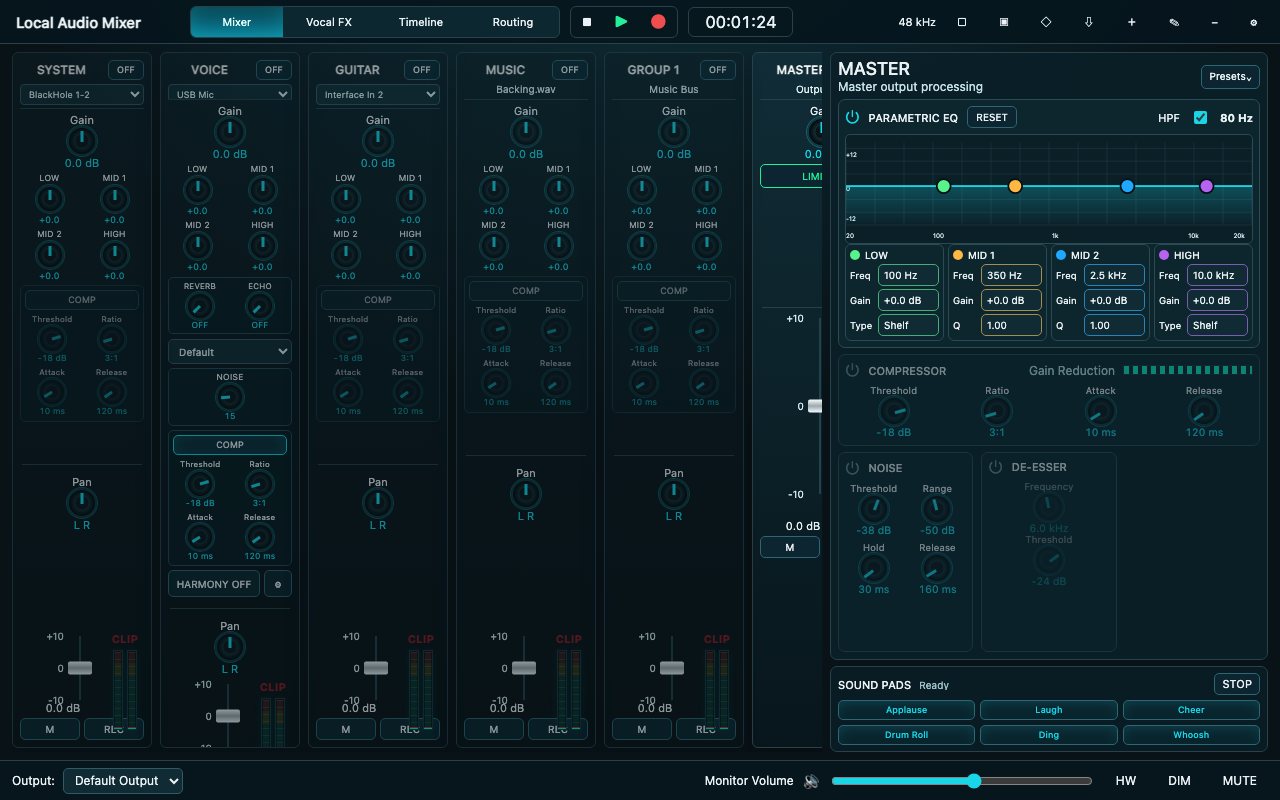
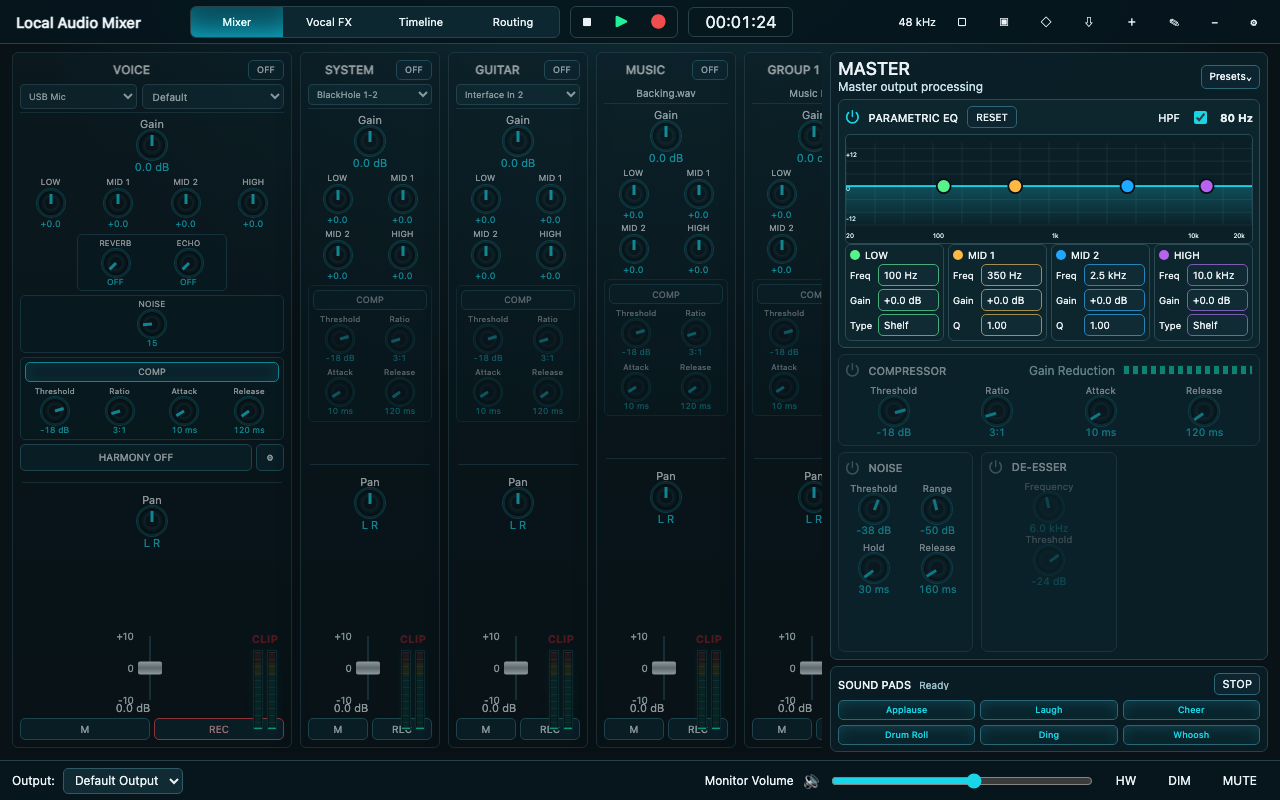
Widen voice strip and move preset picker

diff --git a/apps/desktop/src/features/mixer/components/ChannelStrip.tsx b/apps/desktop/src/features/mixer/components/ChannelStrip.tsx
@@ -32,23 +32,28 @@ interface ChannelStripProps {
 
 export function ChannelStrip({ channel, sourceOptions, vocalFxPresetId, vocalFxPresets, vocalFxSlots, onSelect, onEnabled, onSource, onTrim, onPan, onFader, onEqBand, onNoiseAmount, onCompressorParam, onCompressorEnabled, onMute, onRecordArm, onVocalFxPreset, onVocalFxMix, onClipReset, onHarmonyToggle, onHarmonySettings }: ChannelStripProps) {
   const isMaster = channel.kind === "master";
+  const isVocal = channel.role === "vocal";
+  const isSystem = channel.role === "system";
   const meter = channel.enabled ? channel.meter : { left: -60, right: -60, clip: false };
 
   return (
-    <article className={`channel-strip ${channel.selected ? "is-selected" : ""} ${isMaster ? "is-master" : ""} ${!channel.enabled ? "is-disabled" : ""}`} onClick={onSelect}>
+    <article className={`channel-strip ${channel.selected ? "is-selected" : ""} ${isMaster ? "is-master" : ""} ${isVocal ? "is-vocal" : ""} ${isSystem ? "is-system" : ""} ${!channel.enabled ? "is-disabled" : ""}`} onClick={onSelect}>
       <header>
         <div className="channel-title-row">
           <strong>{channel.name}</strong>
           <Button tone={channel.enabled ? "green" : "neutral"} active={channel.enabled} onClick={() => onEnabled(!channel.enabled)}>{channel.enabled ? "ON" : "OFF"}</Button>
         </div>
-        {sourceOptions.length > 0 ? (
-          <select className="channel-source-select" value={channel.source} onChange={(event) => onSource(event.target.value)} onClick={(event) => event.stopPropagation()}>
-            {sourceOptions.map((option) => <option key={option.value} value={option.value}>{option.label}</option>)}
-          </select>
-        ) : <span>{channel.source}</span>}
+        <div className={`channel-header-controls ${isVocal ? "has-preset" : ""}`}>
+          {sourceOptions.length > 0 ? (
+            <select className="channel-source-select" value={channel.source} onChange={(event) => onSource(event.target.value)} onClick={(event) => event.stopPropagation()} aria-label={`${channel.name} input`}>
+              {sourceOptions.map((option) => <option key={option.value} value={option.value}>{option.label}</option>)}
+            </select>
+          ) : <span>{channel.source}</span>}
+          {isVocal ? <VoicePresetSelect presetId={vocalFxPresetId} presets={vocalFxPresets} insertEnabled={channel.processing.insertFx} onPreset={onVocalFxPreset} /> : null}
+        </div>
       </header>
       <RotaryKnob label="Gain" value={`${channel.trimDb.toFixed(1)} dB`} numericValue={channel.trimDb} min={-24} max={24} step={0.5} onChange={onTrim} />
-      {isMaster ? <MasterUpperControls /> : <ChannelToneControls channel={channel} vocalFxPresetId={vocalFxPresetId} vocalFxPresets={vocalFxPresets} vocalFxSlots={vocalFxSlots} onEqBand={onEqBand} onVocalFxPreset={onVocalFxPreset} onVocalFxMix={onVocalFxMix} />}
+      {isMaster ? <MasterUpperControls /> : <ChannelToneControls channel={channel} vocalFxSlots={vocalFxSlots} onEqBand={onEqBand} onVocalFxMix={onVocalFxMix} />}
       {channel.role === "vocal" ? <ChannelNoiseControl channel={channel} onAmount={onNoiseAmount} /> : null}
       {!isMaster ? <ChannelCompressorControls channel={channel} onParam={onCompressorParam} onEnabled={onCompressorEnabled} /> : null}
       {channel.harmonyVisible ? (
@@ -71,6 +76,26 @@ export function ChannelStrip({ channel, sourceOptions, vocalFxPresetId, vocalFxP
         {!isMaster ? <Button tone="danger" active={channel.recordArm} onClick={() => onRecordArm(!channel.recordArm)}>REC</Button> : null}
       </div>
     </article>
+  );
+}
+
+function VoicePresetSelect({ presetId, presets, insertEnabled, onPreset }: {
+  presetId: string;
+  presets: VocalFxPreset[];
+  insertEnabled: boolean;
+  onPreset(presetId: string): void;
+}) {
+  return (
+    <select
+      className="channel-insert-preset"
+      value={insertEnabled ? presetId : "default"}
+      onChange={(event) => onPreset(event.target.value)}
+      onClick={(event) => event.stopPropagation()}
+      aria-label="Voice preset"
+    >
+      <option value="default">Default</option>
+      {presets.map((preset) => <option key={preset.id} value={preset.id}>{preset.name}</option>)}
+    </select>
   );
 }
 
@@ -120,13 +145,10 @@ function ChannelCompressorControls({ channel, onParam, onEnabled }: {
   );
 }
 
-function ChannelToneControls({ channel, vocalFxPresetId, vocalFxPresets, vocalFxSlots, onEqBand, onVocalFxPreset, onVocalFxMix }: {
+function ChannelToneControls({ channel, vocalFxSlots, onEqBand, onVocalFxMix }: {
   channel: ChannelState;
-  vocalFxPresetId: string;
-  vocalFxPresets: VocalFxPreset[];
   vocalFxSlots: VocalFxSlot[];
   onEqBand(bandId: EqBandState["id"], gainDb: number): void;
-  onVocalFxPreset(presetId: string): void;
   onVocalFxMix(slotId: string, amount: number): void;
 }) {
   const toneBands: Array<{ id: EqBandState["id"]; label: string }> = [
@@ -158,19 +180,7 @@ function ChannelToneControls({ channel, vocalFxPresetId, vocalFxPresets, vocalFx
         })}
       </div>
       {channel.role === "vocal" ? (
-        <>
-          <VoiceSpaceControls slots={vocalFxSlots} onMix={onVocalFxMix} />
-          <select
-            className="channel-insert-preset"
-            value={channel.processing.insertFx ? vocalFxPresetId : "default"}
-            onChange={(event) => onVocalFxPreset(event.target.value)}
-            onClick={(event) => event.stopPropagation()}
-            aria-label="Voice preset"
-          >
-            <option value="default">Default</option>
-            {vocalFxPresets.map((preset) => <option key={preset.id} value={preset.id}>{preset.name}</option>)}
-          </select>
-        </>
+        <VoiceSpaceControls slots={vocalFxSlots} onMix={onVocalFxMix} />
       ) : null}
     </div>
   );

diff --git a/apps/desktop/src/styles/app.css b/apps/desktop/src/styles/app.css
@@ -67,12 +67,17 @@
 .right-zone { min-width: 0; min-height: 0; display: grid; grid-template-rows: minmax(0, 1fr) 94px; gap: 8px; }
 .channel-bank { display: flex; gap: 8px; min-width: 0; min-height: 0; overflow-x: auto; overflow-y: hidden; padding-bottom: 4px; }
 .channel-strip { flex: 0 0 140px; height: 100%; min-height: 0; display: flex; flex-direction: column; align-items: stretch; gap: 6px; padding: 8px; border: 1px solid var(--border); border-radius: 6px; background: linear-gradient(180deg, rgba(17, 45, 55, 0.96), rgba(8, 22, 28, 0.96)); box-shadow: var(--shadow); overflow: hidden; }
+.channel-strip.is-vocal { flex-basis: 280px; }
 .channel-strip.is-disabled { opacity: 0.58; background: linear-gradient(180deg, rgba(13, 31, 38, 0.96), rgba(7, 18, 23, 0.96)); }
 .channel-strip header { text-align: center; border-bottom: 1px solid #24414a; padding-bottom: 5px; min-height: 44px; overflow: hidden; }
 .channel-strip header strong { display: block; color: #f7f7f7; font-size: 12px; font-weight: 520; line-height: 1.15; white-space: nowrap; overflow: hidden; text-overflow: ellipsis; }
 .channel-strip header span { display: block; margin-top: 4px; color: #e2f2f6; line-height: 1.15; white-space: nowrap; overflow: hidden; text-overflow: ellipsis; }
 .channel-title-row { display: grid; grid-template-columns: minmax(0, 1fr) 36px; align-items: center; gap: 5px; }
 .channel-title-row .ui-button { min-height: 20px; padding: 1px 4px; font-size: 9px; }
+.channel-header-controls { display: grid; grid-template-columns: minmax(0, 1fr); gap: 5px; margin-top: 4px; }
+.channel-header-controls.has-preset { grid-template-columns: minmax(0, 0.9fr) minmax(0, 1.1fr); }
+.channel-header-controls .channel-source-select,
+.channel-header-controls .channel-insert-preset { margin-top: 0; }
 .channel-source-select { width: 100%; min-height: 21px; margin-top: 4px; color: #dff4f8; background: #102b34; border: 1px solid #315966; border-radius: 4px; padding: 0 4px; font-size: 9px; font-weight: 380; }
 .processing-buttons { display: grid; gap: 5px; }
 .processing-buttons .ui-button:not(.is-active) { color: #8faeb7; border-color: #214957; background: #09222b; box-shadow: inset 3px 0 0 rgba(95, 126, 137, 0.28); }
@@ -81,12 +86,14 @@
 .channel-insert-preset:focus { outline: 1px solid var(--cyan); outline-offset: 1px; }
 .channel-tone-section { display: grid; gap: 5px; }
 .channel-tone-controls { display: grid; grid-template-columns: repeat(2, minmax(0, 1fr)); gap: 4px 6px; }
+.channel-strip.is-vocal .channel-tone-controls { grid-template-columns: repeat(4, minmax(0, 1fr)); }
 .channel-tone-controls .rotary { min-width: 0; }
 .channel-tone-controls .rotary-label { font-size: 8.5px; margin-bottom: 2px; }
 .channel-tone-controls .rotary-face { width: 26px; height: 26px; }
 .channel-tone-controls .rotary-tick { height: 10px; transform-origin: 50% 10px; }
 .channel-tone-controls .rotary-value { font-size: 9px; margin-top: 2px; }
 .channel-space-controls { display: grid; grid-template-columns: repeat(2, minmax(0, 1fr)); gap: 4px 6px; padding: 3px 4px; border: 1px solid #214957; border-radius: 5px; background: rgba(8, 30, 38, 0.72); }
+.channel-strip.is-vocal .channel-space-controls { max-width: 150px; justify-self: center; width: 100%; }
 .channel-space-controls .rotary { min-width: 0; }
 .channel-space-controls .rotary-label { font-size: 8px; margin-bottom: 1px; }
 .channel-space-controls .rotary-face { width: 24px; height: 24px; }
@@ -103,6 +110,7 @@
 .channel-compressor-section.is-bypassed { opacity: 0.58; }
 .channel-compressor-section > .ui-button { min-height: 20px; padding: 1px 5px; font-size: 9px; }
 .channel-compressor-controls { display: grid; grid-template-columns: repeat(2, minmax(0, 1fr)); gap: 4px 5px; }
+.channel-strip.is-vocal .channel-compressor-controls { grid-template-columns: repeat(4, minmax(0, 1fr)); }
 .channel-compressor-controls .rotary { min-width: 0; }
 .channel-compressor-controls .rotary-label { font-size: 8px; margin-bottom: 1px; }
 .channel-compressor-controls .rotary-face { width: 24px; height: 24px; }
@@ -366,6 +374,7 @@
   .left-zone { grid-template-rows: minmax(0, 1fr); gap: 6px; }
   .right-zone { grid-template-rows: minmax(0, 1fr) 86px; gap: 6px; }
   .channel-strip { flex-basis: 140px; gap: 4px; padding: 7px; font-size: 10px; }
+  .channel-strip.is-vocal { flex-basis: 280px; }
   .channel-strip header { min-height: 40px; padding-bottom: 3px; }
   .processing-buttons { gap: 4px; }
   .processing-buttons .ui-button { min-height: 22px; padding: 1px 8px; }

diff --git a/apps/desktop/src/features/mixer/components/ChannelBank.tsx b/apps/desktop/src/features/mixer/components/ChannelBank.tsx
@@ -27,9 +27,11 @@ interface ChannelBankProps {
 }
 
 export function ChannelBank({ channels, sourceOptions, vocalFxPresetId, vocalFxPresets, vocalFxSlots, onSelect, onEnabled, onSource, onTrim, onPan, onFader, onEqBand, onNoiseAmount, onCompressorParam, onCompressorEnabled, onMute, onRecordArm, onVocalFxPreset, onVocalFxMix, onClipReset, onHarmonyToggle, onHarmonySettings }: ChannelBankProps) {
+  const orderedChannels = orderChannelsForMixer(channels);
+
   return (
     <section className="channel-bank">
-      {channels.map((channel) => (
+      {orderedChannels.map((channel) => (
         <ChannelStrip
           key={channel.id}
           channel={channel}
@@ -58,4 +60,14 @@ export function ChannelBank({ channels, sourceOptions, vocalFxPresetId, vocalFxP
       ))}
     </section>
   );
+}
+
+function orderChannelsForMixer(channels: ChannelState[]) {
+  const orderedChannels = [...channels];
+  const systemIndex = orderedChannels.findIndex((channel) => channel.role === "system");
+  const voiceIndex = orderedChannels.findIndex((channel) => channel.role === "vocal");
+  if (systemIndex >= 0 && voiceIndex >= 0) {
+    [orderedChannels[systemIndex], orderedChannels[voiceIndex]] = [orderedChannels[voiceIndex], orderedChannels[systemIndex]];
+  }
+  return orderedChannels;
 }

diff --git a/docs/progress.md b/docs/progress.md
@@ -4726,3 +4726,33 @@ Validation:
 Known limitations:
 - Full `npm run verify` was interrupted after the native suite had progressed with passing results; targeted typecheck, UI adapter, and native verification passed.
 - Manual hardware confirmation that the final edge reduction is enough is `NOT_RUN`.
+
+### Phase19 UX Checkpoint — Widen Voice Strip And Move Preset Picker
+
+Changed files:
+- `apps/desktop/src/features/mixer/components/ChannelBank.tsx`: swaps the visible VOICE and SYSTEM strip order without changing channel IDs or native routing ownership.
+- `apps/desktop/src/features/mixer/components/ChannelStrip.tsx`: moves the voice preset selector into the VOICE strip header next to the input selector and keeps the tone section focused on direct knobs.
+- `apps/desktop/src/styles/app.css`: makes the VOICE strip 2x the normal mixer strip width and lays out voice EQ/compressor controls across the wider frame.
+- `docs/progress.md`: records verification evidence.
+
+Implemented behavior:
+- VOICE now appears before SYSTEM in the mixer bank.
+- VOICE is twice the width of the standard channel strip, with LOW/MID 1/MID 2/HIGH and compressor knobs spread across the wider strip.
+- The 99 voice preset combo now sits next to the VOICE input combo; the lower voice tone area no longer duplicates that preset selector.
+
+Validation:
+- command: `npm run typecheck`
+- exit/result: `0`; TypeScript passed.
+- command: `npm run check:file-size`
+- exit/result: `0`; file-size check passed with the existing `MixerPage.tsx 837` warning.
+- command: `npm run test:ui -- preview-adapter`
+- exit/result: `0`; PreviewAdapter suite 21/21 passed.
+- command: `npm run test:visual`
+- exit/result: `0`; Playwright visual suite 6/6 passed.
+- command: `npm run check:architecture`
+- exit/result: `0`; architecture check passed.
+- command: `npm run verify`
+- exit/result: `0`; plan, file-size, architecture, typecheck, Vitest 55/55, native CTest 43/43, engine self-test, device enumeration smoke, protocol smoke, UI build, and Electron main/preload build passed.
+
+Known limitations:
+- Manual hardware confirmation of the new mixer strip layout on the live desktop app is `NOT_RUN`.
